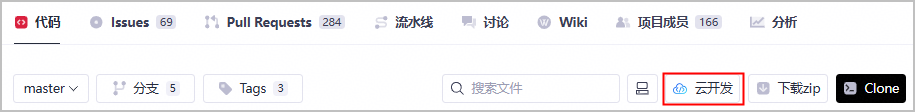
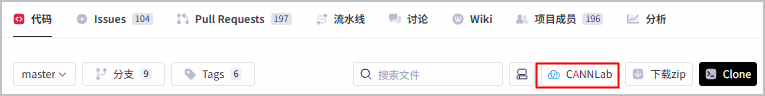
修改CANNLab描述
# message auto-generated for no-merge-commit merge:
!389 merge 20260511 into master

修改CANNLab描述

Created-by: gcw_CRjbEjwl
Commit-by: git config --global user.name gcw_CRjbEjwl
Merged-by: cann-robot
Description: ## 描述
<!--在这里详细描述你的改动，包括改动的原因和所采取的方法。-->
云开发环境名称由WebIDE更正为CANNLab

## 关联的Issue
<!-- 如果这个PR是为了解决特定的Issue，请在这里提供Issue链接。-->
<!-- 如果这个PR是为了解决特定的问题单，请在这里描述问题单单号。-->
NA
## 测试
<!--描述进行了哪些测试来验证你的改动。包括但不限于二级冒烟、算子泛化等。-->
NA
## 文档更新
<!--如果这个PR包含文档的更新，请在这里指出。例如：更新了README.md文件。-->
quick_install.md
QUICKSTART.md

## 类型标签
<!--  [x] 表示选中 -->
- [ ] Bug修复
- [ ] 新特性
- [ ] 性能优化
- [x] 文档更新
- [ ] 其他，请描述：

See merge request: cann/opbase!389

diff --git a/docs/zh/install/quick_install.md b/docs/zh/install/quick_install.md
@@ -13,19 +13,19 @@
 
 |  安装方式  |  使用说明  |  使用场景  |
 | ----- | ------ | ------ |
-|  WebIDE  | 一站式开发平台，提供在线直接运行的昇腾环境，无需手动安装。<br>当前可提供单机算力，**默认安装最新商发版CANN包**。 | 适用于没有昇腾设备的开发者。|
+|  CANNLab  | 一站式开发平台，提供在线直接运行的昇腾环境，无需手动安装。<br>当前可提供单机算力，**默认安装最新商发版CANN包**。 | 适用于没有昇腾设备的开发者。|
 |  Docker  | Docker镜像是一种高效部署方式，已预集成CANN包和必备依赖。<br>当前仅适用于Atlas A2系列产品，OS仅支持Ubuntu操作系统。**默认安装最新商发版CANN包**。 |适用有昇腾设备，需要快速搭建环境的开发者。|
 |  手动安装  | 手动安装CANN包和基础依赖，灵活性高。 |适用有昇腾设备，想体验手动安装CANN包或体验最新master分支能力的开发者。|
 
-### 方式1：WebIDE环境
+### 方式1：CANNLab
 
-对于无昇腾设备的开发者，可直接使用WebIDE开发平台，即“**算子一站式开发平台**”，该平台为您提供在线可直接运行的昇腾环境，环境中已安装必备的驱动固件、软件包和依赖，无需手动安装。
+对于无昇腾设备的开发者，可直接使用CANNLab云开发环境，即“**算子一站式开发平台**”，该平台为您提供在线可直接运行的昇腾环境，环境中已安装必备的驱动固件、软件包和依赖，无需手动安装。
 
 > **说明**：环境默认安装最新商发版CANN包，源码下载时注意与软件配套。更多关于开发平台的介绍请参考[LINK](https://gitcode.com/org/cann/discussions/54)。
 
-1. 进入开源项目，单击“`云开发`”按钮，使用已认证过的华为云账号登录。若未注册或认证，请根据页面提示进行注册和认证。
+1. 进入开源项目，单击“`CANNLab`”按钮，使用已认证过的华为云账号登录。若未注册或认证，请根据页面提示进行注册和认证。
 
-   <img src="../figures/cloudIDE.png" alt="云平台"  width="750px" height="90px">
+   <img src="../figures/cloudIDE.png" alt="云平台"  width="750px" height="85px">
 
 2. 根据页面提示创建并启动云开发环境，单击“`连接 > WebIDE`”进入算子一站式开发平台，开源项目的源码资源默认在`/mnt/workspace`目录下。
 

diff --git a/docs/QUICKSTART.md b/docs/QUICKSTART.md
@@ -8,7 +8,7 @@
 
 ### 安装构建工具
 
-> **说明**：对于WebIDE或Docker环境，默认已安装源码编译所需的构建工具，无需手动安装，可跳过本章操作。
+> **说明**：对于CANNLab或Docker环境，默认已安装源码编译所需的构建工具，无需手动安装，可跳过本章操作。
 
 请先确保编译环境的基础库依赖已安装，注意满足版本号要求。
 
@@ -35,7 +35,7 @@ pip3 install -r requirements.txt
 
 ### 安装第三方依赖
 
-> **说明**：对于WebIDE或Docker环境，默认联网，编译过程中会自动下载第三方依赖，无需手动安装，可跳过本章操作。
+> **说明**：对于CANNLab或Docker环境，默认联网，编译过程中会自动下载第三方依赖，无需手动安装，可跳过本章操作。
 
 本项目编译过程依赖的第三方开源软件列表如下：
 

diff --git a/README.md b/README.md
@@ -24,7 +24,7 @@ opbase是[CANN](https://hiascend.com/software/cann) （Compute Architecture for 
 
 环境准备好后，下载与CANN版本配套的分支源码，命令如下，\$\{tag\_version\}替换为分支标签名。
 
-> 说明：若环境中已存在配套分支源码，**可跳过本步骤**，例如WebIDE默认已提供最新商发版CANN对应的源码 。
+> 说明：若环境中已存在配套分支源码，**可跳过本步骤**，例如CANNLab默认已提供最新商发版CANN对应的源码 。
 
 ```bash
 git clone -b ${tag_version} https://gitcode.com/cann/opbase.git